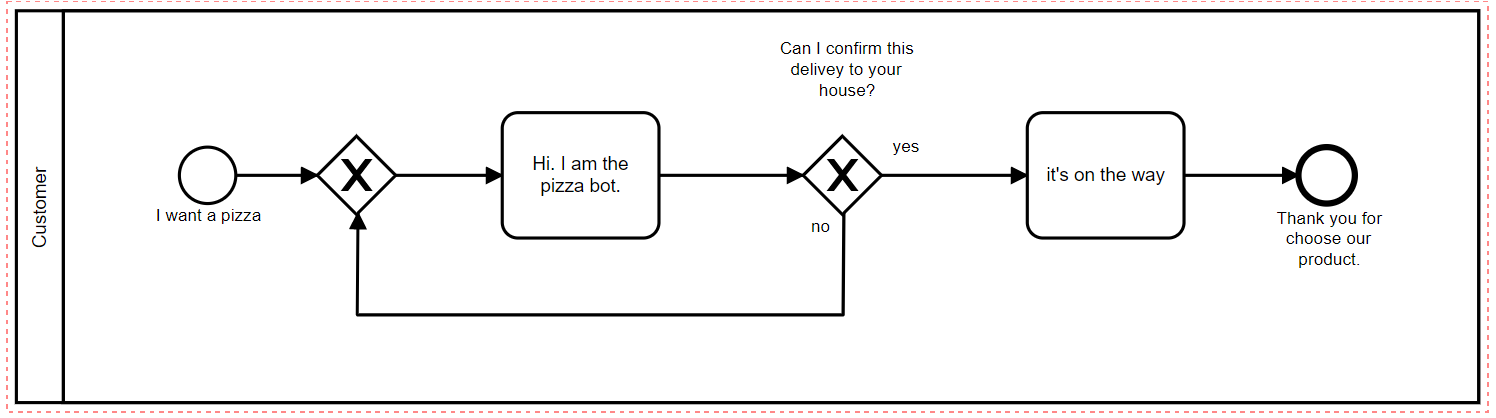
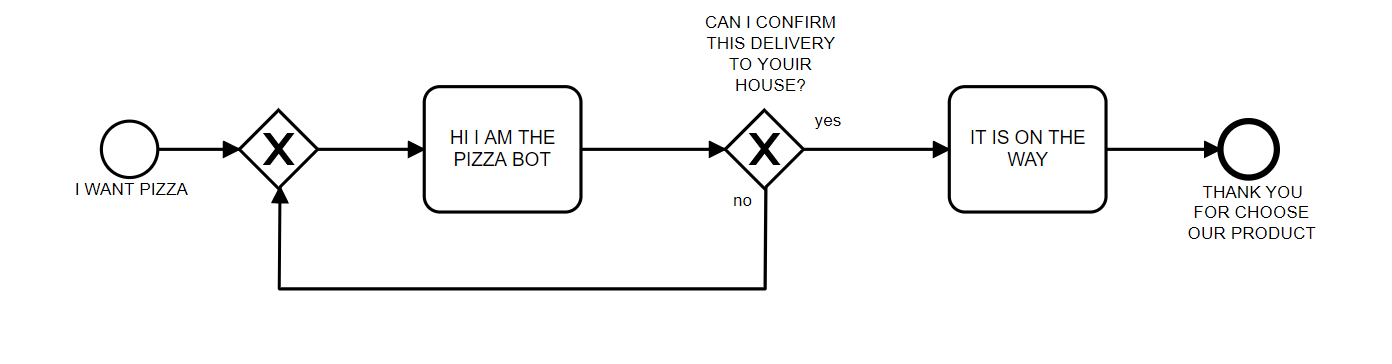
ultima versao

diff --git a/README.md b/README.md
@@ -58,13 +58,13 @@ skype: giseldo
 
 USER: I WANT A PIZZA
 
-BOT: HI. I AM THE PIZZA BOT.
+BOT: HI I AM THE PIZZA BOT
 
 BOT: CAN I CONFIRM THIS DELIVERY TO YOUR HOUSE?
 
 USER: YES
 
-BOT: IT'S ON THE WAY
+BOT: IT IS ON THE WAY
 
 BOT: THANK YOU FOR CHOOSE OUR PRODUCT
 
